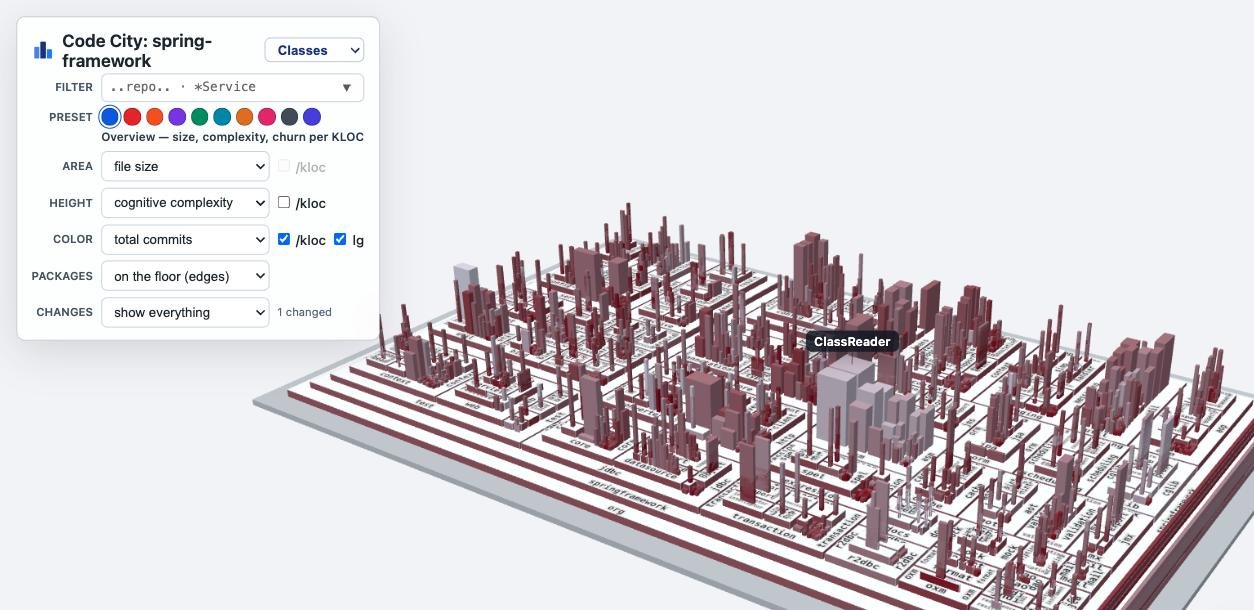
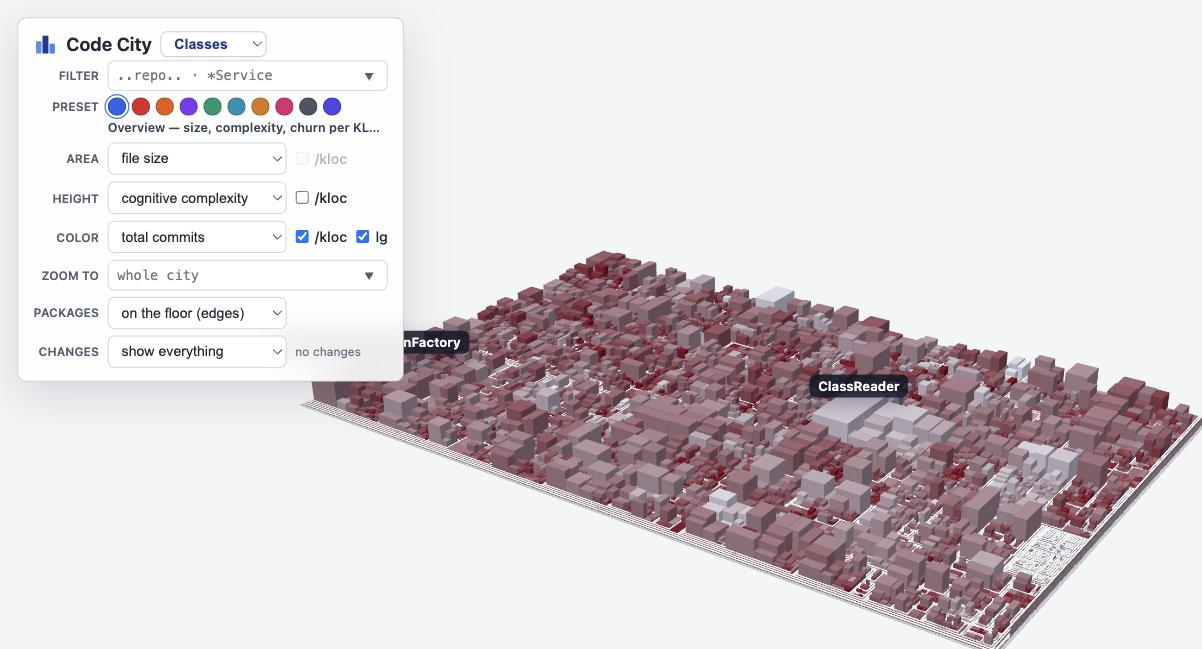
feat: a city that is to scale, and one you can zoom into by name
- **Scale.** The plate now grows with total lines (fixed density), so Spring's ground is
  ~12x wider than PetClinic's instead of identical. Everything drawn on the plate —
  streets, name bands, the height scale — is sized from one TILE, not from the plate;
  scaling them with the plate made Spring's package names taller than its towers, and
  leaving them absolute turned the city into a flat map. Sized from the tile, a
  5000-file city looks like a 90-file one seen from higher up, which is what it is.
- **Flicker.** Pushing the far plane out to fit the bigger plate left so little depth
  precision that coplanar surfaces traded places every frame — with the mouse still,
  because damping never stops nudging the camera. Log depth buffer, and a near plane
  that rises with the plate.
- **Zoom to.** A new row in the panel: type or autocomplete any package to drill into
  it. Shift-clicking a floor only reaches what you can see and recognise; 565 packages
  need a box you can name one in. Stays in step with the breadcrumb both ways.

diff --git a/render_codecity.py b/render_codecity.py
@@ -1088,6 +1088,14 @@ html = """<!doctype html>
       <input id="colorLog" type="checkbox" aria-label="log colour ramp"> lg
     </label>
 
+    <span class="knob">Zoom to</span>
+    <div class="filterRow" title="Drill into one package — the same scope shift-clicking a floor gives you">
+      <input id="scopePick" type="text" spellcheck="false" autocomplete="off"
+             list="allPackages" placeholder="whole city">
+      <datalist id="allPackages"></datalist>
+      <button id="scopePickClear" type="button" title="back to the whole city" hidden>&times;</button>
+    </div>
+
     <span class="knob">Packages</span>
     <select id="pkgLabelMode" aria-label="package label style">
       <option value="floating">floating tags</option>
@@ -1251,6 +1259,9 @@ const changeCountEl = document.getElementById("changeCount");
 const filterInput = document.getElementById("pkgFilter");
 const filterClearBtn = document.getElementById("pkgFilterClear");
 const filterCountEl = document.getElementById("pkgFilterCount");
+const scopeInput = document.getElementById("scopePick");
+const scopeClearBtn = document.getElementById("scopePickClear");
+const scopeList = document.getElementById("allPackages");
 if (packageOpt && !PACKAGES.length) packageOpt.disabled = true;   // no package data → option greyed
 if (moduleOpt && MODULES.length < 2) moduleOpt.disabled = true;   // <2 modules → nothing to compare
 // "show everything" is the default; the highlight/hide modes only make sense when
@@ -1394,23 +1405,37 @@ const cityD = Math.round(citySize / Math.sqrt(cityAspect));  // PetClinic: 712 d
 const cityRadius = Math.hypot(cityW, cityD) / 2;             // half-diagonal: shadow + camera fit
 // Everything written ON the plate scales with it, or a big city's package names would
 // be unreadable specks by the time the camera has pulled back far enough to frame it.
-const cityScale = citySize / 900;
+// ...and everything drawn ON the plate scales with the size of ONE TILE, not with the
+// plate: streets, package-name bands and heights stay in proportion to the buildings,
+// so a 5000-file city looks like a 90-file one seen from higher up — which is exactly
+// what it is. Scaling them with the plate instead made Spring's package names taller
+// than its towers. `cityUnit` is recomputed per rebuild, because a filter changes how
+// many tiles share the plate. 95 = the reference footprint (PetClinic's median).
+const cityScale = citySize / 900;   // plate vs the reference plate: lights + far plane follow it
+let cityUnit = 1;
+const REFERENCE_FOOTPRINT = 95;
+function tuneCityToTileSize(leafCount) {
+  const tile = Math.sqrt((cityW * cityD) / Math.max(1, leafCount));
+  cityUnit = Math.max(0.35, tile / REFERENCE_FOOTPRINT);
+  districtGap = 14 * cityUnit;
+  fileGap = 3 * cityUnit;
+  districtStep = 9 * cityUnit;
+  maxHeight = 190 * cityUnit;
+  minHeight = 5 * cityUnit;
+}
 let cityTop = 0;                                             // tallest building; heights are p95-scaled, so outliers blow past maxHeight
-// Streets are part of the plate, so they scale with it: keep them absolute and a big
-// city's alleys vanish at the zoom needed to see it whole. Heights do NOT scale --
-// they are a metric, and a metric must mean the same thing in every city.
-const districtGap = 14 * cityScale;
-const fileGap = 3 * cityScale;
-const districtStep = 9;   // terrace rise per nesting level: tall enough to separate floors without hatching
+let districtGap = 14;
+let fileGap = 3;
+let districtStep = 9;   // terrace rise per nesting level: tall enough to separate floors without hatching
 // Margin kept clear on ALL FOUR sides of every district, where its name is written.
 // It has to be reserved in the treemap itself: children terraces rise ABOVE their
 // parent's floor and tile its whole area, so text laid anywhere else is buried.
 // One fixed width for every level: a package name is an identifier, not a metric —
 // sizing it by the district's area only said "this package is big", which the plate
 // already says, while making the outer names (victor / training / petclinic) shout.
-const floorLabelBand = () => 13 * cityScale;
-const maxHeight = 190;
-const minHeight = 5;
+const floorLabelBand = () => 13 * cityUnit;
+let maxHeight = 190;
+let minHeight = 5;
 let buildings = [];
 let districts = [];
 let cityLabels = [];
@@ -1492,11 +1517,16 @@ scene.background = new THREE.Color(0xf4f5f7);
 // A long lens (30°, not the usual 45°) shot from far back: perspective flattens
 // out, so the far districts stay the same scale as the near ones, the way the
 // original CodeCity plates look.
-const camera = new THREE.PerspectiveCamera(30, window.innerWidth / window.innerHeight, 1,
-  Math.max(20000, cityRadius * 30));   // the far plane has to clear the whole plate
+// The far plane has to clear the whole plate, and the near plane has to rise with it:
+// a 1-unit near against a 250000-unit far leaves so little depth precision that
+// coplanar surfaces (a building's base on its floor, a name laid on a terrace) trade
+// places from frame to frame and the city flickers — with the camera standing still,
+// because damping never stops nudging it. The log depth buffer holds the rest.
+const camera = new THREE.PerspectiveCamera(30, window.innerWidth / window.innerHeight,
+  Math.max(1, cityRadius / 400), Math.max(20000, cityRadius * 20));
 camera.position.set(720, 620, 760);   // provisional; frameCity() fits it to the real city
 
-const renderer = new THREE.WebGLRenderer({ antialias: true });
+const renderer = new THREE.WebGLRenderer({ antialias: true, logarithmicDepthBuffer: true });
 renderer.setPixelRatio(Math.min(window.devicePixelRatio, 2));
 renderer.setSize(window.innerWidth, window.innerHeight);
 renderer.shadowMap.enabled = true;
@@ -1595,7 +1625,7 @@ function openInEditor(rel) {
 
 scene.add(new THREE.HemisphereLight(0xffffff, 0x8592a3, 2.1));
 const sun = new THREE.DirectionalLight(0xffffff, 2.2);
-sun.position.set(-420 * cityScale, 780 * cityScale, 520 * cityScale);
+sun.position.set(-420 * cityScale, 780 * cityScale, 520 * cityScale);   // the sun has to clear the whole plate
 sun.castShadow = true;
 sun.shadow.mapSize.set(2048, 2048);
 sun.shadow.camera.left = -(cityRadius + 60);
@@ -1748,6 +1778,7 @@ function medianFootprint(root) {
 function rebuildCity() {
   clearCity();
   cityTop = 0;                 // tallest building of THIS layout — what frameCity must fit
+  tuneCityToTileSize(filteredDataset().length);   // streets, bands and heights follow the tile
   const areaMetric = areaMetricKey();
   const heightMetric = heightMetricKey();
   const colorMetric = colorMetricKey();
@@ -1865,6 +1896,7 @@ function rebuildCity() {
     cityTop = Math.max(cityTop, baseY + height);
   }
   styleForChanges();
+  refreshScopeOptions();
   setupLabels(areaMetric, heightMetric, colorMetric);
   if (filterCountEl) filterCountEl.textContent = filterRe ? buildings.length + " shown" : "";
   if (changeCountEl) {
@@ -2082,7 +2114,7 @@ function placeFloorLabelMesh(tex, worldW, worldH, x, z, topY, yaw) {
     new THREE.MeshBasicMaterial({ map: tex, transparent: true, depthWrite: false })
   );
   mesh.rotation.x = -Math.PI / 2;                    // lay flat on the platform top
-  mesh.position.set(x, topY + 0.6, z);
+  mesh.position.set(x, topY + 0.6 * cityUnit, z);   // clear of the terrace it lies on
   mesh.renderOrder = 3;
   mesh.userData.kind = "package";                    // disposed by clearCity's package sweep
   scene.add(mesh);
@@ -2431,6 +2463,8 @@ function fitDistance(dir, target, top) {
 }
 
 function updateBreadcrumb() {
+  if (scopeInput && scopeInput.value.trim() !== scopePath) scopeInput.value = scopePath;
+  if (scopeClearBtn) scopeClearBtn.hidden = scopePath === "";
   if (scopePath === "") {
     breadcrumbEl.hidden = true;
     breadcrumbEl.innerHTML = "";
@@ -2449,6 +2483,40 @@ function updateBreadcrumb() {
   });
   breadcrumbEl.innerHTML = parts.join("");
   breadcrumbEl.hidden = false;
+}
+
+// ── "Zoom to": the drill-in you get by shift-clicking a floor, as a typed one ────
+// Shift-clicking only reaches what you can see and identify; a codebase with 565
+// packages needs a way to say the name. Every package on the current lens (a package
+// IS something else in module view) goes into a datalist, so the browser does the
+// autocomplete and the box stays a plain text field you can also paste into.
+let scopeOptions = new Set();
+function refreshScopeOptions() {
+  if (!scopeList) return;
+  scopeOptions = new Set();
+  for (const file of activeDataset()) {
+    const pkg = packageOf(file);
+    let acc = "";
+    for (const seg of pkg ? pkg.split(".") : []) {
+      acc = acc ? `${acc}.${seg}` : seg;
+      scopeOptions.add(acc);
+    }
+  }
+  scopeList.innerHTML = [...scopeOptions].sort()
+    .map(name => `<option value="${escapeXml(name)}"></option>`).join("");
+}
+
+// Applied the moment the text IS a package (picked from the list, typed in full or
+// pasted) — anything else is someone still typing, and rebuilding the city per
+// keystroke would fight them.
+function applyScopePick() {
+  if (!scopeInput) return;
+  const value = scopeInput.value.trim();
+  if (scopeClearBtn) scopeClearBtn.hidden = value === "";
+  scopeInput.classList.toggle("bad", value !== "" && !scopeOptions.has(value));
+  if (value !== "" && !scopeOptions.has(value)) return;
+  dismissIntro();
+  scopeTo(value);
 }
 
 function onSceneClick(event) {
@@ -2885,6 +2953,15 @@ function applyFilter() {
   frameCity();
 }
 filterInput.addEventListener("input", applyFilter);
+if (scopeInput) {
+  scopeInput.addEventListener("input", applyScopePick);
+  scopeInput.addEventListener("change", applyScopePick);
+}
+if (scopeClearBtn) scopeClearBtn.addEventListener("click", () => {
+  scopeInput.value = "";
+  applyScopePick();
+  scopeInput.focus();
+});
 filterClearBtn.addEventListener("click", () => { filterInput.value = ""; applyFilter(); filterInput.focus(); });
 window.addEventListener("resize", onResize);
 window.addEventListener("resize", dismissIntro);

diff --git a/README.md b/README.md
@@ -11,7 +11,9 @@ a CDN, no server. Mail it, publish it on Pages, open it from disk.
 ![The Spring Framework as a Code City](docs/spring-framework-city.jpg)
 
 *The Spring Framework: 5003 classes, 565 packages, 23 modules — one run, one page.
-Height is cognitive complexity, colour is commits per KLOC on a log ramp.*
+Height is cognitive complexity, colour is commits per KLOC on a log ramp. The plate is
+~12x wider than PetClinic's because the codebase is ~160x bigger: ground area is total
+lines, so the two cities are to scale with each other.*
 
 ## Quick start
 
@@ -78,12 +80,17 @@ with D3 treemap; Three.js extrudes each file tile into a building.
 a **landscape rectangle** (1.6:1), not a square, and the opening shot is *computed* from
 the city's bounding box rather than hard-coded: a long 30° lens placed far enough back
 that the whole plate fits, low over the horizon and swung off-axis. There is **no fog** —
-far districts stay as crisp as near ones. Three scales adapt to repo size, so a 60-file
-toy and a 5000-file monster both read as cities instead of needles or flat tiles:
+far districts stay as crisp as near ones.
 
-- **height** scales off the *median footprint* (footprints shrink as the file count
-  grows on a fixed plate, so the height scale shrinks with them); above the p95 the
-  curve goes logarithmic, so one monster class doesn't spike the whole skyline;
+**The plate is the size of the codebase.** Ground area grows with total lines at a fixed
+density, so a file of a given size gets the same footprint in every repo and two cities
+are to scale with each other (Spring's plate is ~12x wider than PetClinic's). Everything
+drawn *on* the plate — streets, package-name bands, the height scale — is sized from ONE
+TILE rather than from the plate, which keeps a 5000-file city looking like a 90-file one
+seen from higher up. That is also the honest picture: it IS the same city with more of it.
+
+- **height** scales with the tile too, and above the p95 the curve goes logarithmic, so
+  one monster class doesn't spike the whole skyline;
 - **streets narrow with nesting depth** — boulevards between top-level modules, alleys
   between leaf packages, instead of one flat gap that eats a deep tree's plate;
 - a class **name appears only once its roof is ≥ 26 px on screen**, so a huge city
@@ -94,7 +101,10 @@ toy and a 5000-file monster both read as cities instead of needles or flat tiles
   terraces rise above their parent's floor and tile all of it, so text laid anywhere
   else is buried. Its width is the *same at every nesting level* (the letters overhang
   it to stay readable): how big a package is, is what the plate already shows — the
-  name is an identifier, not a metric.
+  name is an identifier, not a metric;
+- the **depth buffer is logarithmic** and the near plane rises with the plate. Without
+  both, a big city flickers where surfaces meet (a base on its floor, a name on its
+  terrace) — even standing still, because camera damping never quite stops.
 
 **The control panel** stacks one knob per row, each row a single question, so the three
 visual axes read as independent choices rather than one wide toolbar:
@@ -104,6 +114,7 @@ visual axes read as independent choices rather than one wide toolbar:
 | `FILTER` | AspectJ-style glob (`victor..*Service`, `..repo..`, `*Service`). It is a text box **with a dropdown** (its chevron always visible, or nobody finds it): the generator offers the biggest packages (`..rest.*`, `..repository.*`) and the CamelCase class families it finds — every leading word shared by ≥ 3 classes (`..Pet*`, `..Owner*`) — each with its class count. |
 | `PRESET` | ten coloured bubbles, one click each: a saved reading of the city (overview, hotspots, bug density, complexity density, knowledge risk, coupling, instability, churn vs. team, plain size, dependencies). A bubble sets all three metrics *and* the four bits below; the row's caption spells out which reading you are on, and reads *Custom* as soon as you turn any knob under it. |
 | `AREA` / `HEIGHT` / `COLOR` | the metric on that axis, plus a **`/kloc`** checkbox that swaps a raw count for its density twin (complexity, commits, bugfixes). Where no density exists the checkbox greys out instead of disappearing, so the rows keep their shape. Colour also carries **`lg`**, the log-vs-linear ramp: it ticks itself to what the chosen metric wants and remembers your override per metric for the session. |
+| `ZOOM TO` | drill into one package by name, with autocomplete over every package in the current lens — the typed form of shift-clicking a floor. |
 | `PACKAGES` | package-name style: floating tags, on the floor, or off. |
 | `CHANGES` | the change-set filter (below). |
 
